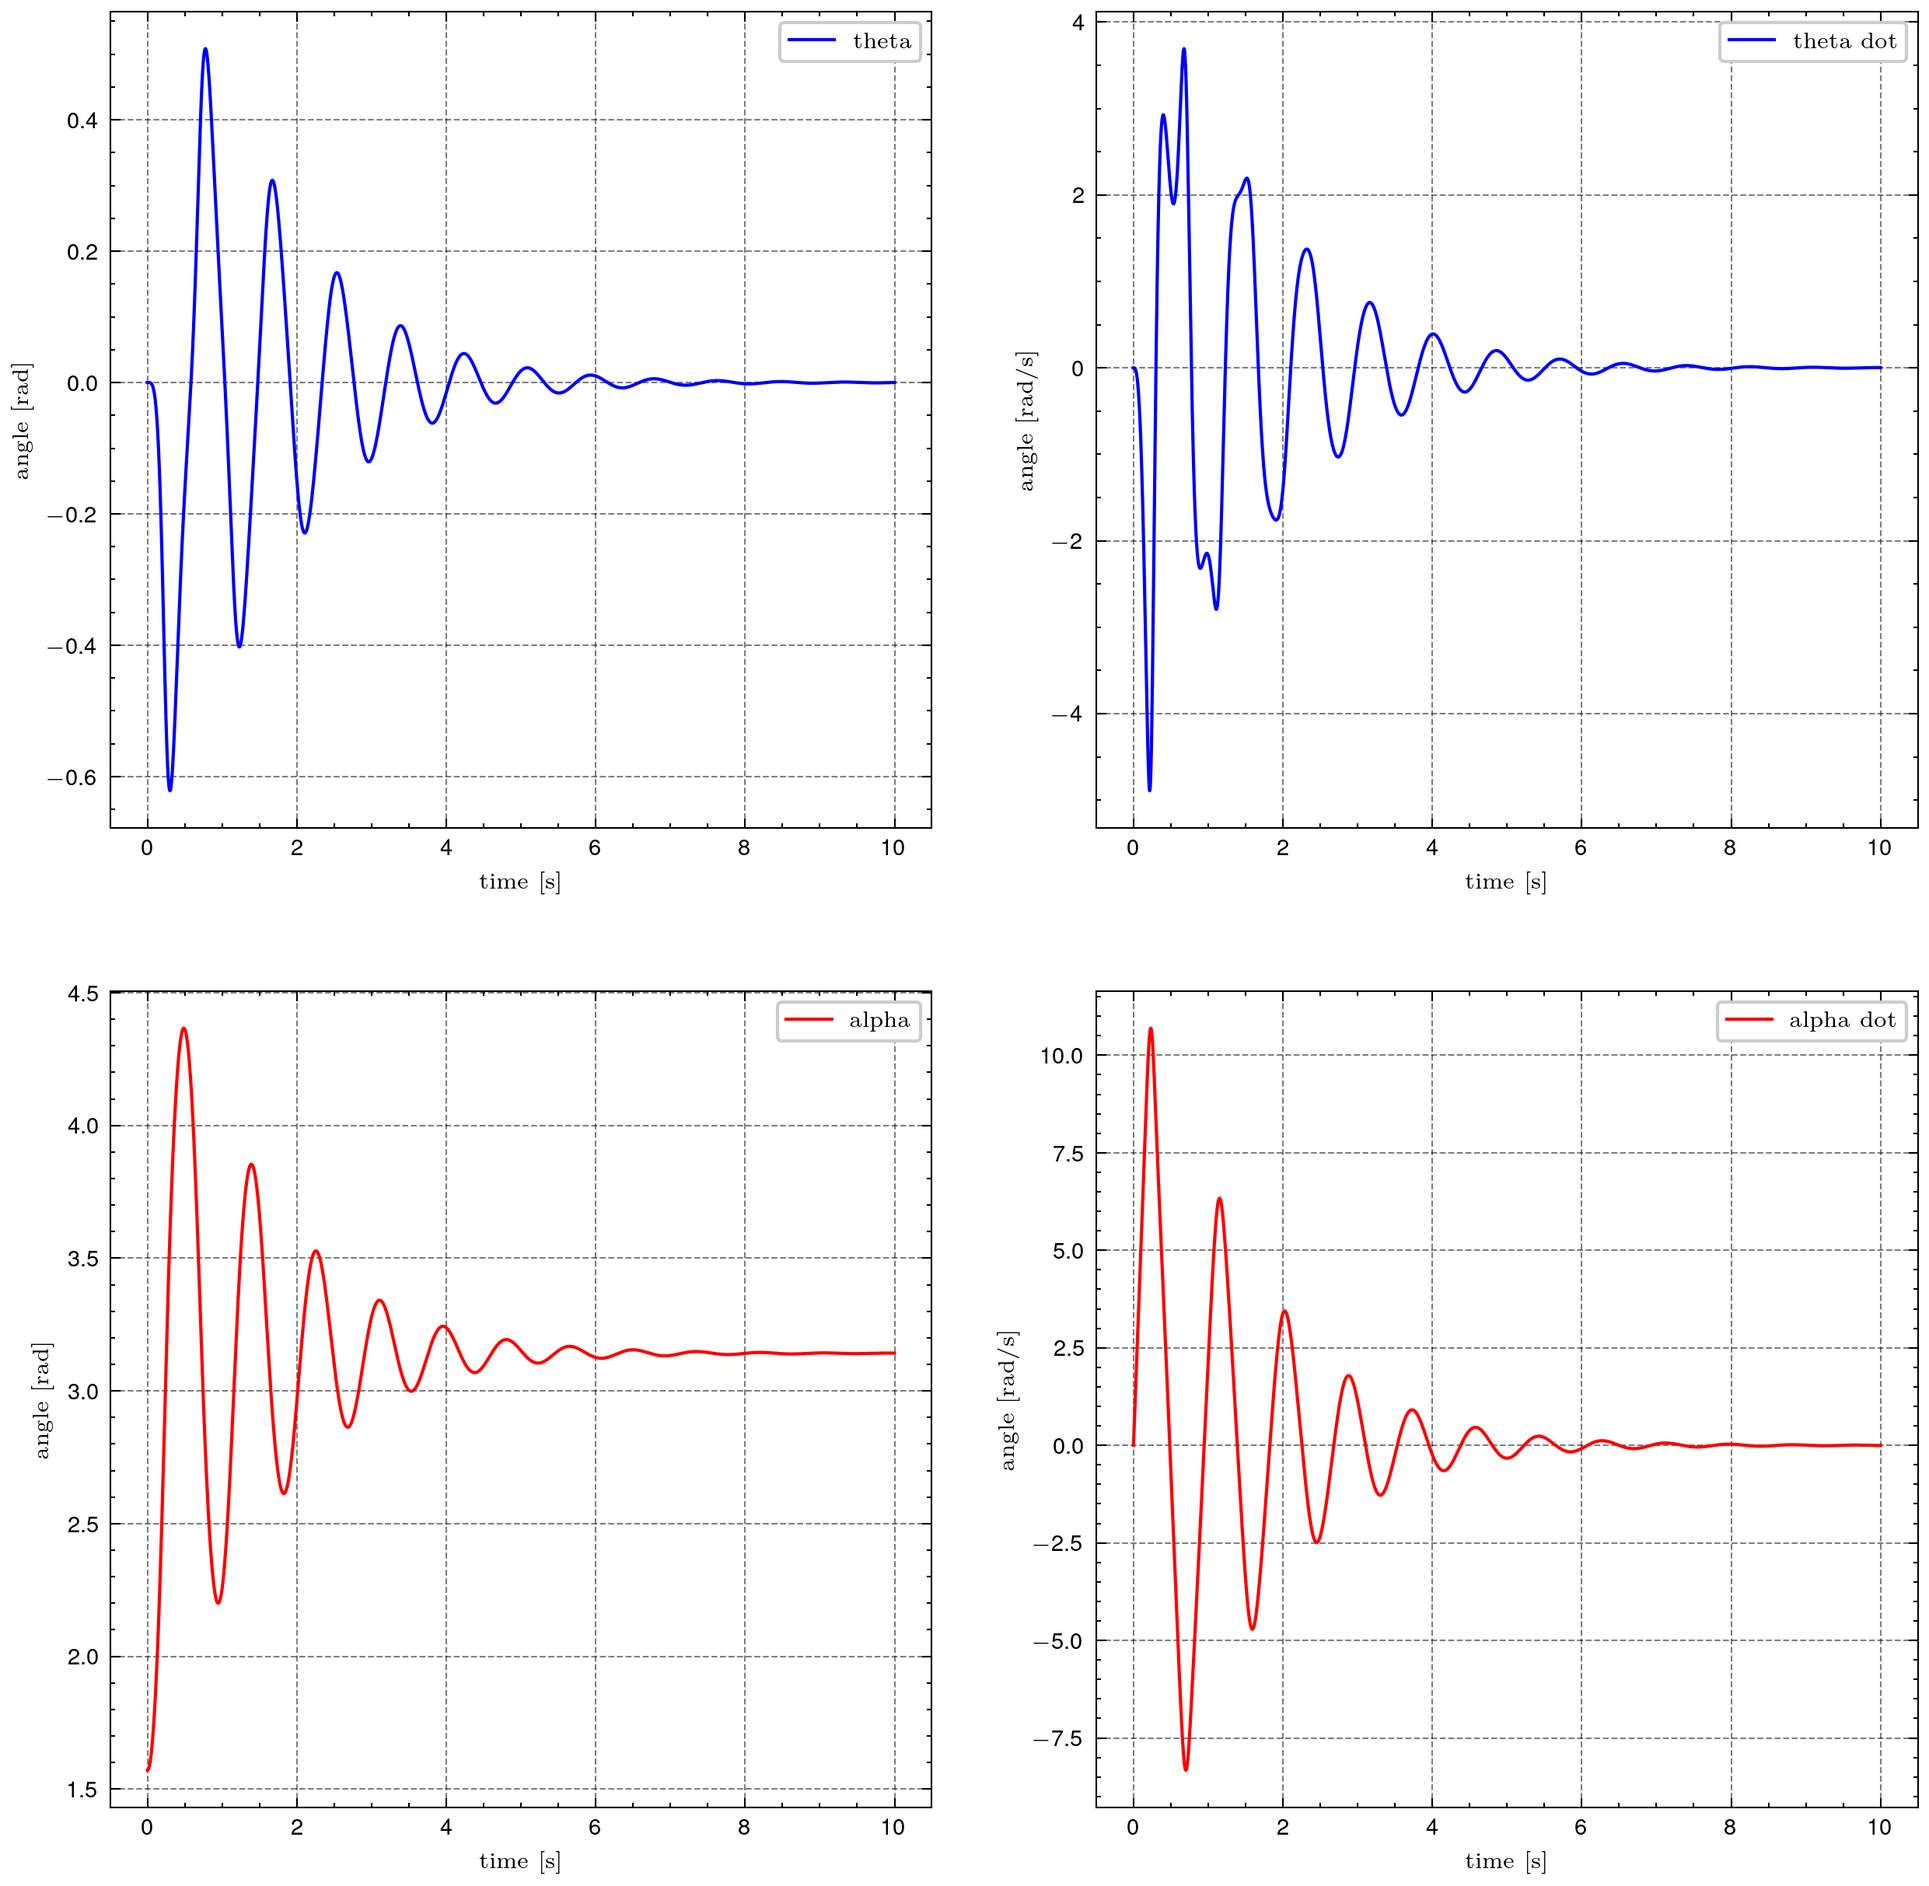
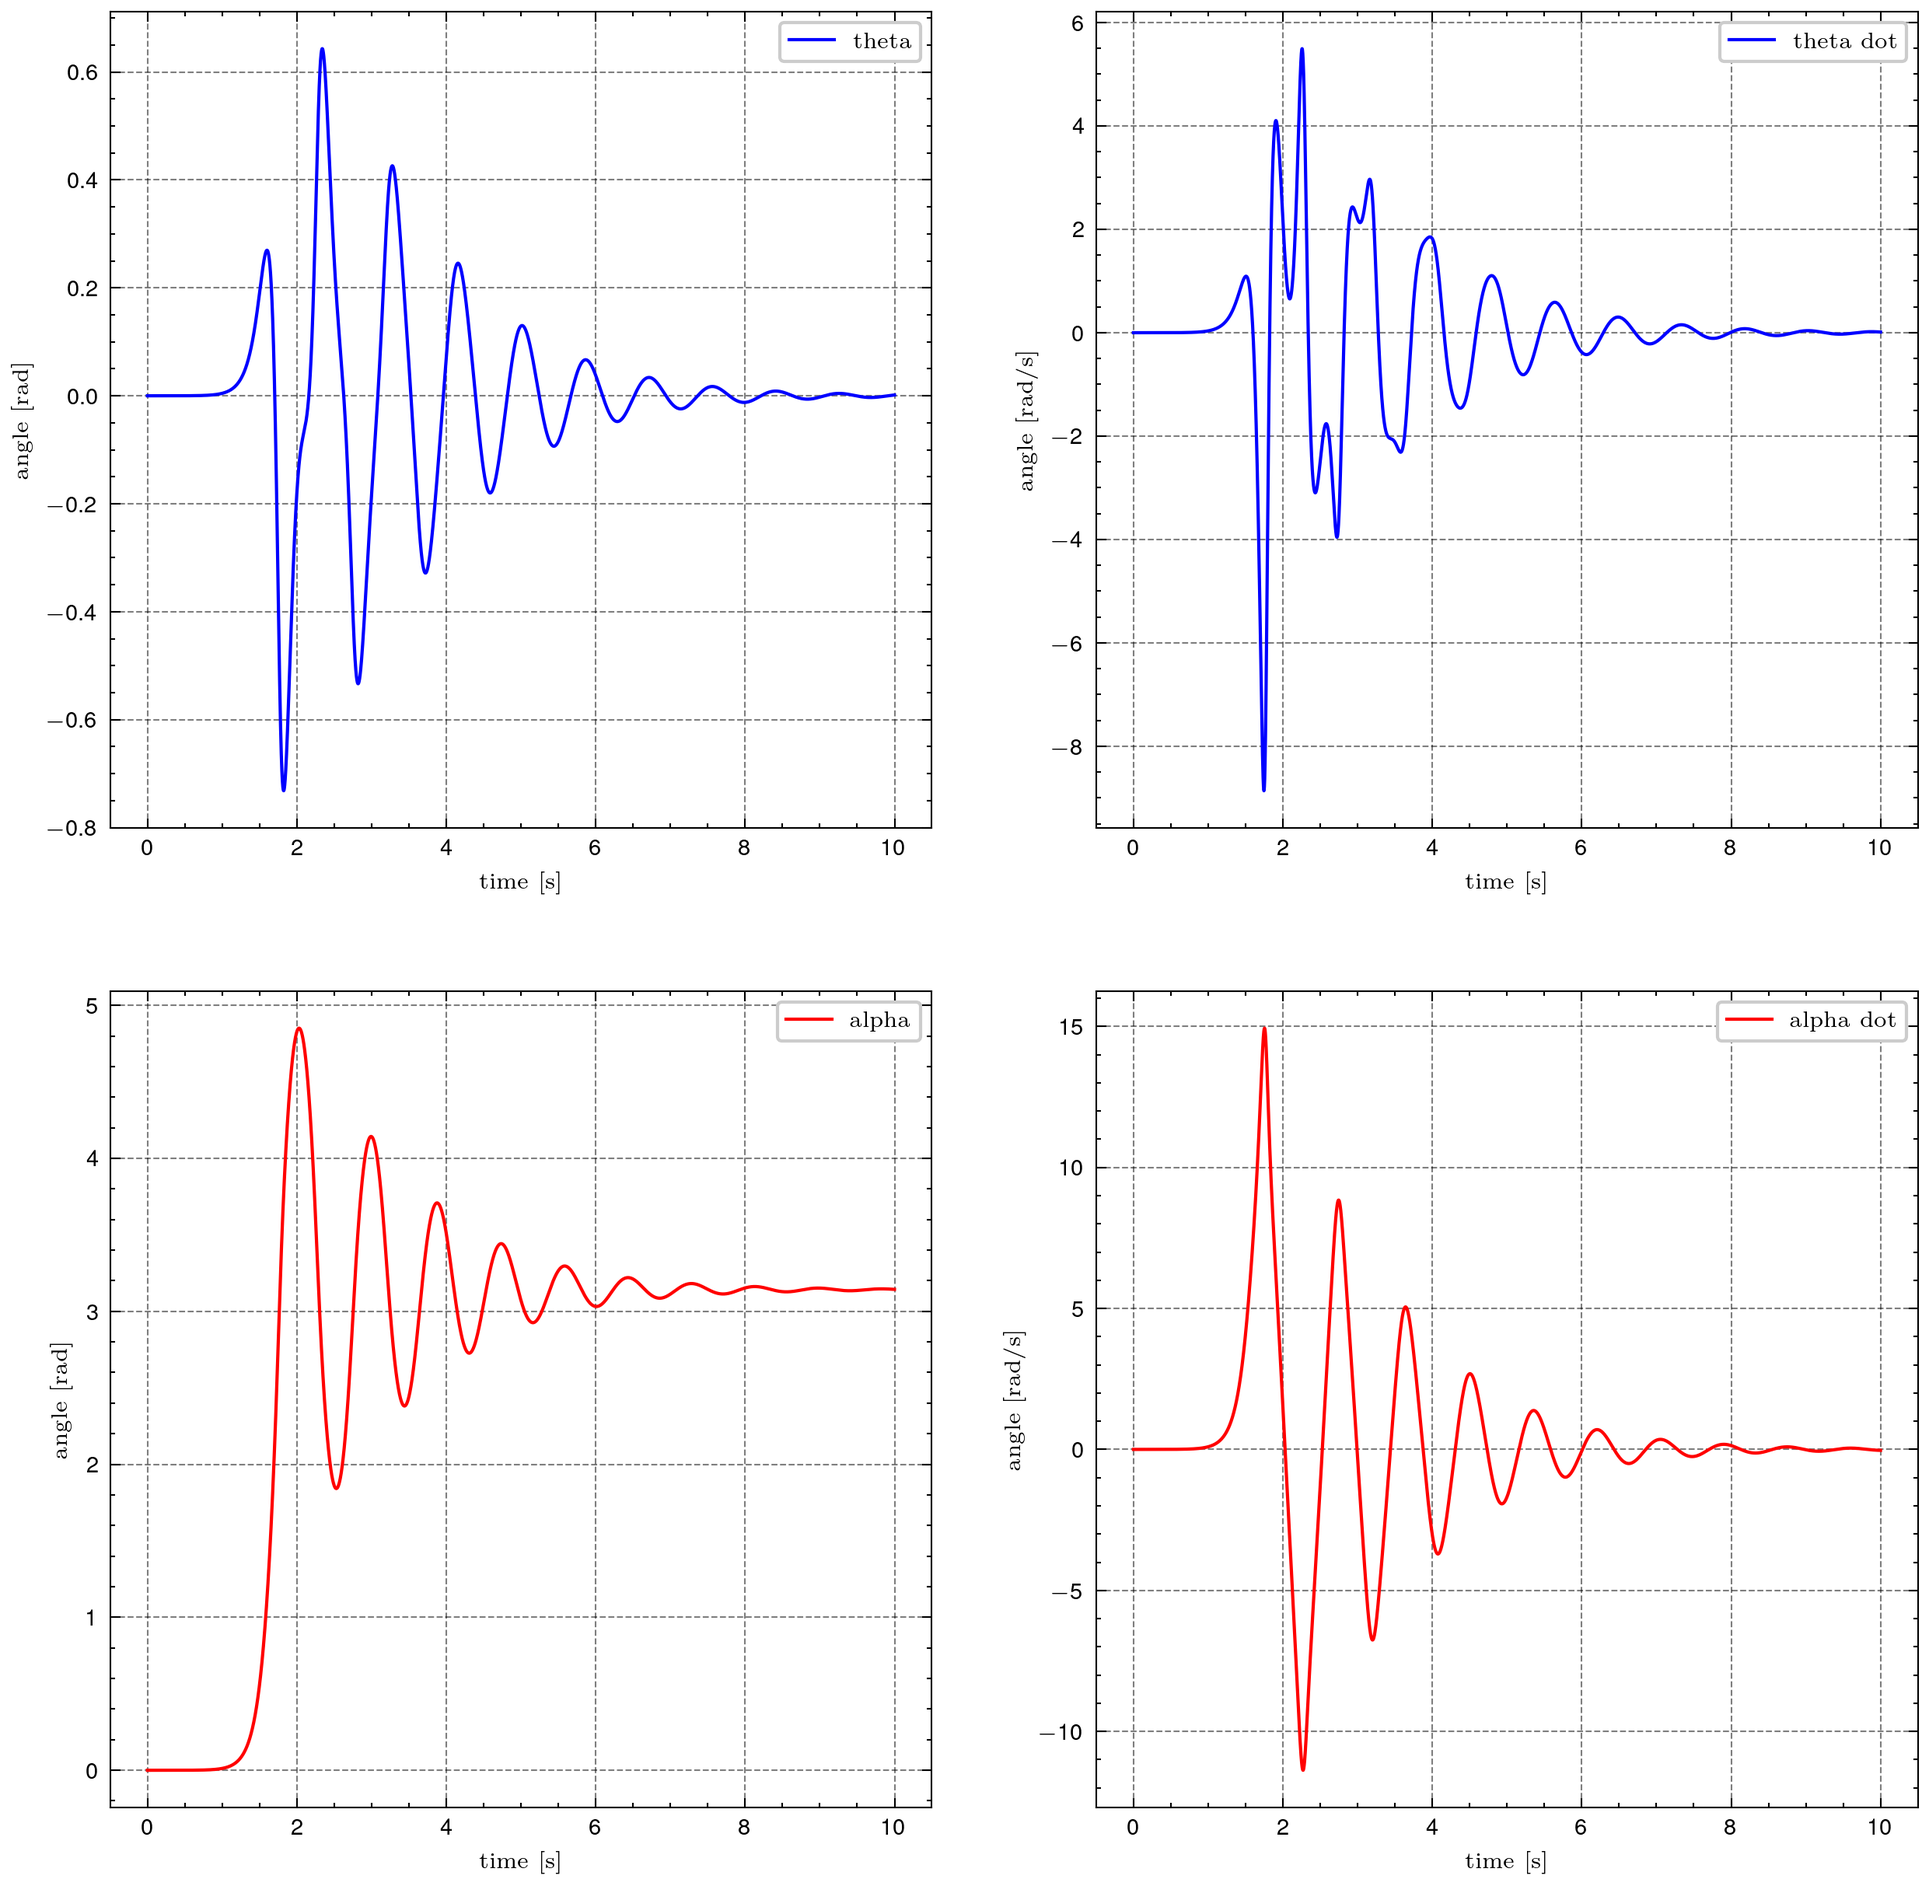
.

diff --git a/main.py b/main.py
@@ -20,7 +20,7 @@ plt.rcParams['font.size'] = 12
 
 initial_condition = np.array([
   [.0],
-  [np.pi - np.pi/2],
+  [.00001],
   [.0],
   [.0]
 ])
@@ -56,6 +56,9 @@ for i in range(1, samples):
   theta_values[i] = np.array([x[0], x[2]]).T
   alpha_values[i] = np.array([x[1], x[3]]).T
 
+# saving the data
+np.save('nl_theta_values.npy', theta_values)
+np.save('nl_alpha_values.npy', alpha_values)
 
 fig1, axs = plt.subplots(2, 2, figsize=(10, 10))
 
